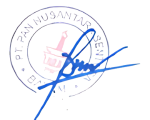
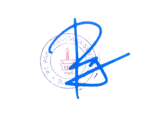
change signature

diff --git a/resources/views/excel/invoice/invoice-setup.blade.php b/resources/views/excel/invoice/invoice-setup.blade.php
@@ -9,7 +9,7 @@
     <tr>
         <td>Penanda Tangan Invoice</td>
         <td>:</td>
-        <td>Gratcia Natanael Simanjuntak</td>
+        <td>Rony Prayitno Simeon</td>
     </tr>
     {{-- 3 --}}
     <tr>
